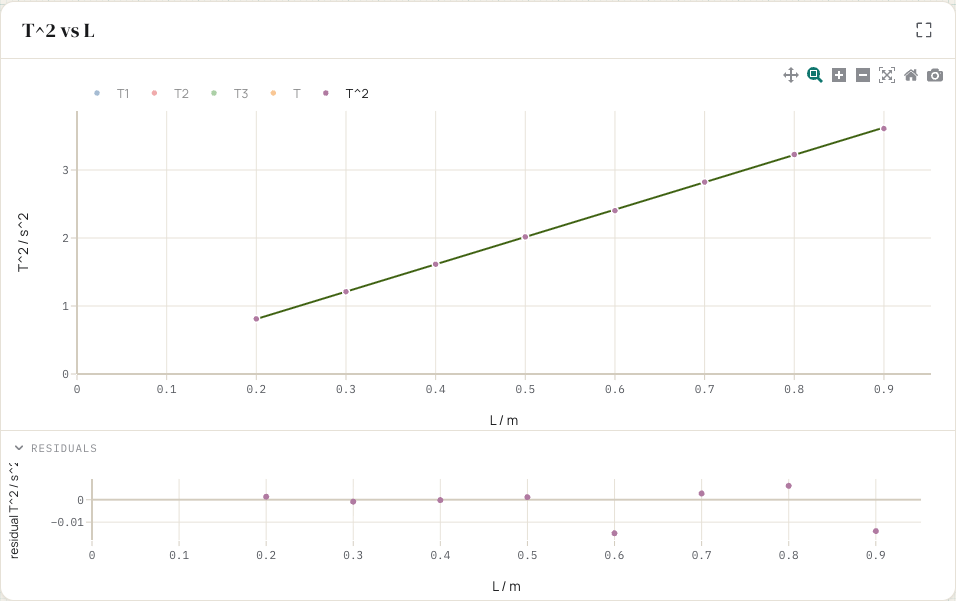
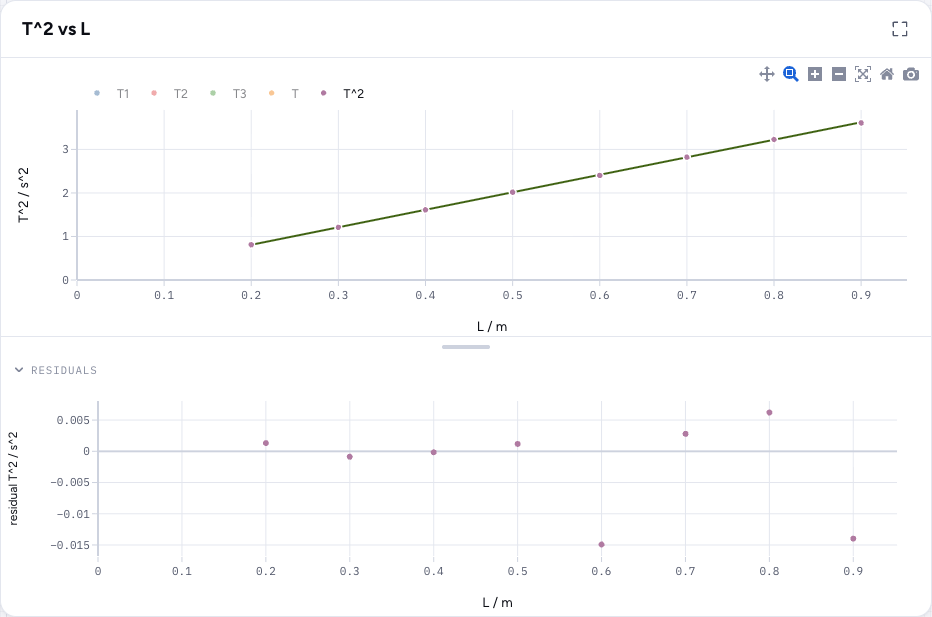
Recapture the PanPhyPlot manual screenshots in the Spectrum design (#1259)
All nine light/dark pairs follow the manual's pendulum walkthrough again in
the current app: workspace, Mean, Formula, calculated columns, Fit, Result,
graph with residuals, View Table and Clear. Image sizes in manual.html are
updated, and the manual README notes how the set was framed.

diff --git a/tools/panphyplot/manual.html b/tools/panphyplot/manual.html
@@ -90,11 +90,11 @@
 </div>
 <figure class="screenshot">
 			<a class="screenshot-link screenshot-light" href="/tools/panphyplot/manual/mean-light.png" target="_blank" rel="noopener" aria-label="Enlarge mean screenshot">
-				<img src="/tools/panphyplot/manual/mean-light.png" width="560" height="474" loading="lazy" decoding="async" alt="Mean of repeats dialog with T1, T2 and T3 selected, half-spread uncertainty enabled, and Hide the repeat readings on the graph enabled.">
+				<img src="/tools/panphyplot/manual/mean-light.png" width="560" height="461" loading="lazy" decoding="async" alt="Mean of repeats dialog with T1, T2 and T3 selected, half-spread uncertainty enabled, and Hide the repeat readings on the graph enabled.">
 				<span class="screenshot-open">Enlarge screenshot <span aria-hidden="true">↗</span></span>
 			</a>
 			<a class="screenshot-link screenshot-dark" href="/tools/panphyplot/manual/mean-dark.png" target="_blank" rel="noopener" aria-label="Enlarge mean screenshot">
-				<img src="/tools/panphyplot/manual/mean-dark.png" width="560" height="474" loading="lazy" decoding="async" alt="Mean of repeats dialog with T1, T2 and T3 selected, half-spread uncertainty enabled, and Hide the repeat readings on the graph enabled.">
+				<img src="/tools/panphyplot/manual/mean-dark.png" width="560" height="461" loading="lazy" decoding="async" alt="Mean of repeats dialog with T1, T2 and T3 selected, half-spread uncertainty enabled, and Hide the repeat readings on the graph enabled.">
 				<span class="screenshot-open">Enlarge screenshot <span aria-hidden="true">↗</span></span>
 			</a>
 			<figcaption><strong>Mean of repeats.</strong> Select all three readings and keep both options enabled.</figcaption>
@@ -119,11 +119,11 @@
 </div>
 <figure class="screenshot">
 			<a class="screenshot-link screenshot-light" href="/tools/panphyplot/manual/formula-light.png" target="_blank" rel="noopener" aria-label="Enlarge formula screenshot">
-				<img src="/tools/panphyplot/manual/formula-light.png" width="560" height="574" loading="lazy" decoding="async" alt="Formula dialog with T^2, column name T^2, unit s^2, uncertainty propagation enabled, and a first-row preview of 0.81 plus or minus 0.018.">
+				<img src="/tools/panphyplot/manual/formula-light.png" width="560" height="627" loading="lazy" decoding="async" alt="Formula dialog with T^2, column name T^2, unit s^2, uncertainty propagation enabled, and a first-row preview of 0.81 plus or minus 0.018.">
 				<span class="screenshot-open">Enlarge screenshot <span aria-hidden="true">↗</span></span>
 			</a>
 			<a class="screenshot-link screenshot-dark" href="/tools/panphyplot/manual/formula-dark.png" target="_blank" rel="noopener" aria-label="Enlarge formula screenshot">
-				<img src="/tools/panphyplot/manual/formula-dark.png" width="560" height="574" loading="lazy" decoding="async" alt="Formula dialog with T^2, column name T^2, unit s^2, uncertainty propagation enabled, and a first-row preview of 0.81 plus or minus 0.018.">
+				<img src="/tools/panphyplot/manual/formula-dark.png" width="560" height="627" loading="lazy" decoding="async" alt="Formula dialog with T^2, column name T^2, unit s^2, uncertainty propagation enabled, and a first-row preview of 0.81 plus or minus 0.018.">
 				<span class="screenshot-open">Enlarge screenshot <span aria-hidden="true">↗</span></span>
 			</a>
 			<figcaption><strong>Formula column.</strong> The preview checks the value and its propagated uncertainty before you apply it.</figcaption>
@@ -166,11 +166,11 @@
 </table>
 <figure class="screenshot">
 			<a class="screenshot-link screenshot-light" href="/tools/panphyplot/manual/columns-light.png" target="_blank" rel="noopener" aria-label="Enlarge columns screenshot">
-				<img src="/tools/panphyplot/manual/columns-light.png" width="1414" height="499" loading="lazy" decoding="async" alt="Processed pendulum table showing L, T1, T2, T3, mean T, uncertainty ΔT, T^2 and uncertainty ΔT^2, with X, Y and ±ΔY roles.">
+				<img src="/tools/panphyplot/manual/columns-light.png" width="1415" height="499" loading="lazy" decoding="async" alt="Processed pendulum table showing L, T1, T2, T3, mean T, uncertainty ΔT, T^2 and uncertainty ΔT^2, with X, Y and ±ΔY roles.">
 				<span class="screenshot-open">Enlarge screenshot <span aria-hidden="true">↗</span></span>
 			</a>
 			<a class="screenshot-link screenshot-dark" href="/tools/panphyplot/manual/columns-dark.png" target="_blank" rel="noopener" aria-label="Enlarge columns screenshot">
-				<img src="/tools/panphyplot/manual/columns-dark.png" width="1414" height="499" loading="lazy" decoding="async" alt="Processed pendulum table showing L, T1, T2, T3, mean T, uncertainty ΔT, T^2 and uncertainty ΔT^2, with X, Y and ±ΔY roles.">
+				<img src="/tools/panphyplot/manual/columns-dark.png" width="1415" height="499" loading="lazy" decoding="async" alt="Processed pendulum table showing L, T1, T2, T3, mean T, uncertainty ΔT, T^2 and uncertainty ΔT^2, with X, Y and ±ΔY roles.">
 				<span class="screenshot-open">Enlarge screenshot <span aria-hidden="true">↗</span></span>
 			</a>
 			<figcaption><strong>The completed sheet.</strong> Enlarge this image and choose <strong>Actual size</strong> to inspect individual readings.</figcaption>
@@ -198,11 +198,11 @@
 </div>
 <figure class="screenshot">
 			<a class="screenshot-link screenshot-light" href="/tools/panphyplot/manual/fit-light.png" target="_blank" rel="noopener" aria-label="Enlarge fit screenshot">
-				<img src="/tools/panphyplot/manual/fit-light.png" width="520" height="552" loading="lazy" decoding="async" alt="Fit card with T^2 against L selected, Basic tab, Linear model, Fit Curve button, and Weight by uncertainties switched on.">
+				<img src="/tools/panphyplot/manual/fit-light.png" width="520" height="536" loading="lazy" decoding="async" alt="Fit card with T^2 against L selected, Basic tab, Linear model, Fit Curve button, and Weight by uncertainties switched on.">
 				<span class="screenshot-open">Enlarge screenshot <span aria-hidden="true">↗</span></span>
 			</a>
 			<a class="screenshot-link screenshot-dark" href="/tools/panphyplot/manual/fit-dark.png" target="_blank" rel="noopener" aria-label="Enlarge fit screenshot">
-				<img src="/tools/panphyplot/manual/fit-dark.png" width="520" height="552" loading="lazy" decoding="async" alt="Fit card with T^2 against L selected, Basic tab, Linear model, Fit Curve button, and Weight by uncertainties switched on.">
+				<img src="/tools/panphyplot/manual/fit-dark.png" width="520" height="536" loading="lazy" decoding="async" alt="Fit card with T^2 against L selected, Basic tab, Linear model, Fit Curve button, and Weight by uncertainties switched on.">
 				<span class="screenshot-open">Enlarge screenshot <span aria-hidden="true">↗</span></span>
 			</a>
 			<figcaption><strong>Fit setup.</strong> The squared period is selected, with a linear model and uncertainty weighting.</figcaption>
@@ -227,11 +227,11 @@
 </div>
 <figure class="screenshot">
 			<a class="screenshot-link screenshot-light" href="/tools/panphyplot/manual/result-light.png" target="_blank" rel="noopener" aria-label="Enlarge result screenshot">
-				<img src="/tools/panphyplot/manual/result-light.png" width="520" height="568" loading="lazy" decoding="async" alt="Result card showing a fitted linear equation, slope and intercept with uncertainties, R squared, chi squared per degree of freedom and RMSE.">
+				<img src="/tools/panphyplot/manual/result-light.png" width="520" height="557" loading="lazy" decoding="async" alt="Result card showing a fitted linear equation, slope and intercept with uncertainties, R squared, chi squared per degree of freedom and RMSE.">
 				<span class="screenshot-open">Enlarge screenshot <span aria-hidden="true">↗</span></span>
 			</a>
 			<a class="screenshot-link screenshot-dark" href="/tools/panphyplot/manual/result-dark.png" target="_blank" rel="noopener" aria-label="Enlarge result screenshot">
-				<img src="/tools/panphyplot/manual/result-dark.png" width="520" height="568" loading="lazy" decoding="async" alt="Result card showing a fitted linear equation, slope and intercept with uncertainties, R squared, chi squared per degree of freedom and RMSE.">
+				<img src="/tools/panphyplot/manual/result-dark.png" width="520" height="557" loading="lazy" decoding="async" alt="Result card showing a fitted linear equation, slope and intercept with uncertainties, R squared, chi squared per degree of freedom and RMSE.">
 				<span class="screenshot-open">Enlarge screenshot <span aria-hidden="true">↗</span></span>
 			</a>
 			<figcaption><strong>Result card.</strong> Equation, parameters with uncertainties, and fit-quality measures.</figcaption>
@@ -243,11 +243,11 @@
 <p>Expand <strong>Residuals</strong> below the graph. These are the differences between the measurements and the fitted line. Look for scatter around zero; a curved pattern suggests trying another model. Drag the divider above the residuals to adjust the split height, or focus it and use Up/Down. Double-click or press Enter to reset the height.</p>
 <figure class="screenshot">
 			<a class="screenshot-link screenshot-light" href="/tools/panphyplot/manual/graph-light.png" target="_blank" rel="noopener" aria-label="Enlarge graph screenshot">
-				<img src="/tools/panphyplot/manual/graph-light.png" width="956" height="601" loading="lazy" decoding="async" alt="Graph of T squared against L with a fitted straight line, error bars, and an expanded residual plot below.">
+				<img src="/tools/panphyplot/manual/graph-light.png" width="932" height="617" loading="lazy" decoding="async" alt="Graph of T squared against L with a fitted straight line, error bars, and an expanded residual plot below.">
 				<span class="screenshot-open">Enlarge screenshot <span aria-hidden="true">↗</span></span>
 			</a>
 			<a class="screenshot-link screenshot-dark" href="/tools/panphyplot/manual/graph-dark.png" target="_blank" rel="noopener" aria-label="Enlarge graph screenshot">
-				<img src="/tools/panphyplot/manual/graph-dark.png" width="956" height="601" loading="lazy" decoding="async" alt="Graph of T squared against L with a fitted straight line, error bars, and an expanded residual plot below.">
+				<img src="/tools/panphyplot/manual/graph-dark.png" width="932" height="617" loading="lazy" decoding="async" alt="Graph of T squared against L with a fitted straight line, error bars, and an expanded residual plot below.">
 				<span class="screenshot-open">Enlarge screenshot <span aria-hidden="true">↗</span></span>
 			</a>
 			<figcaption><strong>The fitted graph and residuals.</strong> The sample points sit close to the line; the residuals show their small differences from it.</figcaption>
@@ -273,11 +273,11 @@
 </div>
 <figure class="screenshot">
 			<a class="screenshot-link screenshot-light" href="/tools/panphyplot/manual/table-light.png" target="_blank" rel="noopener" aria-label="Enlarge table screenshot">
-				<img src="/tools/panphyplot/manual/table-light.png" width="880" height="498" loading="lazy" decoding="async" alt="View Table dialog with the pendulum readings and calculated values alongside their uncertainties, plus Copy for Spreadsheet, Copy as Image, Copy Markdown and Copy LaTeX buttons.">
+				<img src="/tools/panphyplot/manual/table-light.png" width="880" height="485" loading="lazy" decoding="async" alt="View Table dialog with the pendulum readings and calculated values alongside their uncertainties, plus Copy for Spreadsheet, Copy as Image, Copy Markdown and Copy LaTeX buttons.">
 				<span class="screenshot-open">Enlarge screenshot <span aria-hidden="true">↗</span></span>
 			</a>
 			<a class="screenshot-link screenshot-dark" href="/tools/panphyplot/manual/table-dark.png" target="_blank" rel="noopener" aria-label="Enlarge table screenshot">
-				<img src="/tools/panphyplot/manual/table-dark.png" width="880" height="498" loading="lazy" decoding="async" alt="View Table dialog with the pendulum readings and calculated values alongside their uncertainties, plus Copy for Spreadsheet, Copy as Image, Copy Markdown and Copy LaTeX buttons.">
+				<img src="/tools/panphyplot/manual/table-dark.png" width="880" height="485" loading="lazy" decoding="async" alt="View Table dialog with the pendulum readings and calculated values alongside their uncertainties, plus Copy for Spreadsheet, Copy as Image, Copy Markdown and Copy LaTeX buttons.">
 				<span class="screenshot-open">Enlarge screenshot <span aria-hidden="true">↗</span></span>
 			</a>
 			<figcaption><strong>View Table.</strong> Values are paired with their uncertainties, with several copy formats.</figcaption>
@@ -303,11 +303,11 @@
 		<p><strong>Clear</strong>, at the right of the toolbar, offers two choices. <strong>Clear data, keep columns</strong> empties every cell and removes the sheet's fits, but keeps the names, units, roles and formulas, ready for a repeat of the experiment. <strong>Reset to a blank sheet</strong> goes back to a new sheet: two columns, x and y, and no name, so its tab shows its default name, such as Sheet 2. Both choices reset the zoom and axis ranges to automatic scaling, including zero.</p>
 <figure class="screenshot">
 			<a class="screenshot-link screenshot-light" href="/tools/panphyplot/manual/clear-light.png" target="_blank" rel="noopener" aria-label="Enlarge clear screenshot">
-				<img src="/tools/panphyplot/manual/clear-light.png" width="560" height="364" loading="lazy" decoding="async" alt="Clear dialog offering Clear data, keep columns and Reset to a blank sheet, with a Cancel button.">
+				<img src="/tools/panphyplot/manual/clear-light.png" width="560" height="347" loading="lazy" decoding="async" alt="Clear dialog offering Clear data, keep columns and Reset to a blank sheet, with a Cancel button.">
 				<span class="screenshot-open">Enlarge screenshot <span aria-hidden="true">↗</span></span>
 			</a>
 			<a class="screenshot-link screenshot-dark" href="/tools/panphyplot/manual/clear-dark.png" target="_blank" rel="noopener" aria-label="Enlarge clear screenshot">
-				<img src="/tools/panphyplot/manual/clear-dark.png" width="560" height="364" loading="lazy" decoding="async" alt="Clear dialog offering Clear data, keep columns and Reset to a blank sheet, with a Cancel button.">
+				<img src="/tools/panphyplot/manual/clear-dark.png" width="560" height="347" loading="lazy" decoding="async" alt="Clear dialog offering Clear data, keep columns and Reset to a blank sheet, with a Cancel button.">
 				<span class="screenshot-open">Enlarge screenshot <span aria-hidden="true">↗</span></span>
 			</a>
 			<figcaption><strong>Clearing or starting again.</strong> Keep the columns for another run, or reset to a blank x–y sheet. Both choices remove this sheet’s fits and reset the advanced starting parameters.</figcaption>

diff --git a/sw.js b/sw.js
@@ -1,4 +1,4 @@
-const BUILD_ID = '2026-10-23T18:48:42Z';
+const BUILD_ID = '2026-10-23T18:58:41Z';
 const CACHE_PREFIX = 'panphy-labs';
 const PRECACHE_NAME = `${CACHE_PREFIX}-precache-${BUILD_ID}`;
 const RUNTIME_CACHE = `${CACHE_PREFIX}-runtime-${BUILD_ID}`;

diff --git a/tools/panphyplot/manual/README.md b/tools/panphyplot/manual/README.md
@@ -2,7 +2,7 @@
 
 Nine light/dark PNG pairs illustrate the six-step walkthrough and expandable reference in `../manual.html`. `manual.css` imports the app’s `../css/theme.css` tokens and styles the guide as a graph-paper workbench; `manual.js` manages Contents, direct links into closed reference topics, theme-aware image zoom and focus restoration. Capture the real app using **Try sample data** on an empty sheet in an isolated browser session. Do not capture personal datasets or temporary notifications.
 
-Follow the manual's six-step pendulum example: add the mean and half-spread uncertainty for T1–T3, calculate `T^2` with propagated uncertainty, hide T, and fit T² against L with a weighted straight line. Capture the workspace, Mean, Formula, calculated columns, Fit, Result, graph with residuals, View Table and Clear. Keep both themes at the same state and dimensions. Use the app's pane controls to frame the table and fit cards clearly; capture dialogs and cards closely enough to read.
+Follow the manual's six-step pendulum example: add the mean and half-spread uncertainty for T1–T3, calculate `T^2` with propagated uncertainty, hide T, and fit T² against L with a weighted straight line. Capture the workspace, Mean, Formula, calculated columns, Fit, Result, graph with residuals, View Table and Clear. Keep both themes at the same state and dimensions. Use the app's pane controls to frame the table and fit cards clearly; capture dialogs and cards closely enough to read. The current set was captured at 1× scale in a 1680 × 980 window, with the inspector at its 520 px maximum for the Fit and Result cards, a window wide enough to show all eight columns, and a 780 px tall window for the graph.
 
 Keep filenames stable. When replacing a pair, update the image dimensions and captions in the manual if needed. Images are listed in both `sw.js` and the PanPhyPlot `OFFLINE_CARD_REQUIREMENTS` in `index.html`; update those lists when adding or removing a pair, and bump `BUILD_ID` after any image change.
 
